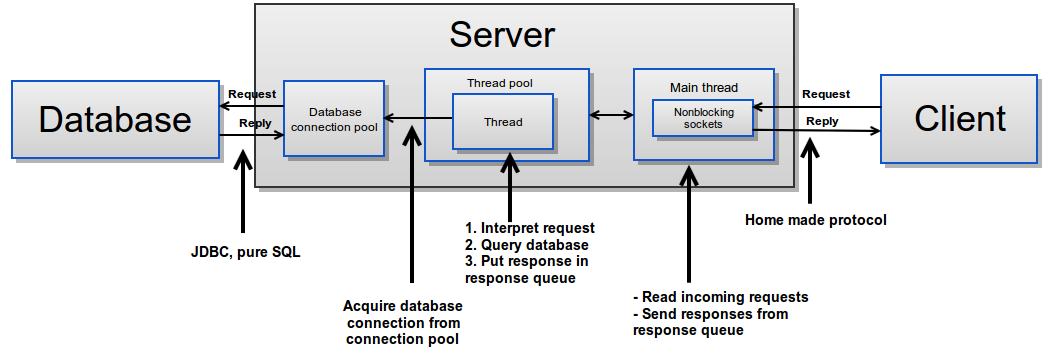
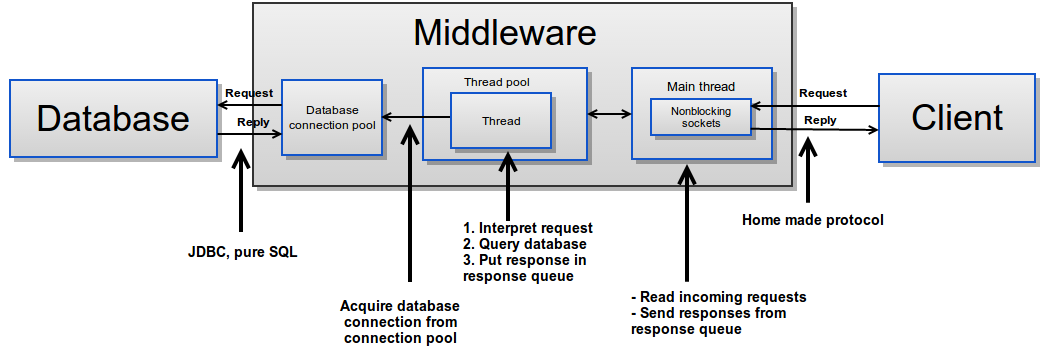
Add stuff to the report.

diff --git a/report/report.tex b/report/report.tex
@@ -38,14 +38,74 @@
 
 
         \subsection{Client}
-            We decided to keep the implementation of our client as simple as possible. This means that our client implementation only consists of code that implements the API described earlier. Basically, our client code can be used directly as a library to communicate with our middleware.
+            We decided to keep the implementation of our client as simple as possible. This means that our client implementation only consists of code that implements the API described earlier. Basically, our client code is a library that can be used in other Java applications to communicate with our middleware.\\
+            \\
+            The client has the following important Java \textbf{packets} and \textit{classes}:
+            \begin{itemize}
+                \item \textbf{asl}
+                    \begin{itemize}
+                        \item \textit{ThorBangMQ} - Main class
+                        \item \textit{Message} - Representation of a message
+                    \end{itemize}
+                \item \textbf{asl.network}
+                \begin{itemize}
+                     \item \textit{SocketTransport} - Transport layer using sockets
+                 \end{itemize} 
+                \item \textbf{asl.infrastructure}
+                 \begin{itemize}
+                    \item \textit{MemoryLogger} - Logging to memory, dump to file later
+                \end{itemize}
+                \item \textbf{asl.infrastructure.exceptions}
+                \begin{itemize}
+                    \item \textit{InvalidClientException} - Invalid client id
+                    \item \textit{InvalidQueueException} - Invalid queue id
+                    \item \textit{InvalidMessageException} - Invalid message id
+                    \item \textit{ServerException} - Unknown exception at server, something is very wrong
+                \end{itemize}
+            \end{itemize}
 
         \subsection{Middleware}
-            We have chosen to use non-blocking sockets instead of blocking sockets since it as a few properties that we like, one of which is that we don't have to spawn a new thread for every client that connects. This means that it will have a smaller impact on the server when a client connects, and that we can support many more clients simultaneously, since the amount of threads in our program will not be linear to the amount of clients currently connected. There is an obvious disadvantage to choosing non-blocking sockets over blocking sockets, though, which is that it can be harder to think about, implement, and work with non-blocking sockets.\\
+            In our middleware we have chosen to use non-blocking sockets instead of blocking sockets since it as a few properties that we like, one of which is that we don't have to spawn a new thread for every client that connects. This means that it will have a smaller impact on the server when a client connects, and that we can support many more clients simultaneously, since the amount of threads in our program doesn't have to be linear to the amount of clients currently connected. There is an obvious disadvantage to choosing non-blocking sockets over blocking sockets though, which is that it can be harder to think about, implement, and work with non-blocking sockets.\\
             \\
-            We chose to use a thread-pool for request interpretation in order to serve multiple requests simultaneously. At the same time, this gives us an obvious place to wait (block) while we wait for the database to answer queries. With regard to the database, we chose to use a connection-pool to avoid the overhead of setting up a new connection to the database each time we query it.\\
+            In an attempt to make our implementation simpler, we decided to perform all network i/o in one thread of our program. Since we want to be able to handle multiple requests simultaneously, we pass data from the network i/o-thread to worker threads for interpretation and handling. These worker threads interpret incoming data and perform database queries needed to complete the request. Afterwards they put the response in a response queue, which the network i/o-thread will read in order to send replies to the requesting clients.\\
             \\
-            In an attempt to make our implementation simpler, we decided to perform all network i/o in the main thread. In order to have the blocking database calls out of the main thread, we use worker threads (as described above) which interpret requests and perform the blocking calls to the database. These worker threads put responses in a response queue which the main thread empties by sending responses on to the clients.
+            By moving interpretation and handling of requests to a thread different from the network i/o-thread, we have a place to perform our (blocking) queries to the database without blocking the whole system.\\
+            We have chosen to use a thread-pool for request interpretation in order to avoid the overhead of creating and deleting threads all of the time, and at the same time bound the maximum number of threads our program will spawn. This should make our system able to handle many more clients than we have threads at the cost of slower response times.\\
+            \\
+            With regard to database connections, we have chosen to use a connection-pool to avoid the overhead of setting up a new connection to the database each time we query it.\\
+            \\
+            The middleware consists of the following important Java \textbf{packets} and \textit{classes}:
+            \begin{itemize}
+                \item \textbf{asl}
+                \begin{itemize}
+                    \item \textit{Main} - Entry point of the program
+                    \item \textit{IntervalLogger} - Logs test data every x second, configurable
+                    \item \textit{GlobalCounters} - Holds global counters used during tests
+                    \item \textit{Message} - Representation of a message
+                    \item \textit{ServerSettings} - Configurable parameters of the server
+                \end{itemize}
+                \item \textbf{asl.infrastructure}
+                \begin{itemize}
+                    \item \textit{MemoryLogger} - Logging to memory, dump to file later
+                \end{itemize}
+                \item \textbf{asl.infrastructure.exceptions}
+                \begin{itemize}
+                    \item \textit{InvalidClientException} - Invalid client id
+                    \item \textit{InvalidQueueException} - Invalid queue id
+                    \item \textit{InvalidMessageException} - Invalid message id
+                    \item \textit{ServerException} - Unknown exception at server, something is very wrong
+                \end{itemize}
+                \item \textbf{asl.network}
+                \begin{itemize}
+                    \item \textit{SocketTransport} - Transport layer using sockets
+                \end{itemize}
+                \item \textbf{asl.persistence}
+                \begin{itemize}
+                    \item \textit{PostgresPersistence} - Uses Postgres as storage
+                    \item \textit{InMemoryPersistence} - Uses local memory as storage
+                    \item \textit{LyingPersistence} - Doesn't store anything
+                \end{itemize}
+            \end{itemize}
 
         \subsection{Database}
             We have chosen to use a simple database schema with three tables: messages, queues, and clients. We have put indexes on all fields that will be used to filter messages. These fields are indicated with a plus sign ($+$) on Figure \ref{fig:database_schema}. 
@@ -55,7 +115,6 @@
                 \caption{Database schema}
                 \label{fig:database_schema}
             \end{figure}
-             \\
             In order to allow clients to send messages to multiple queues at once, we have chosen to replicate messages in queues rather than having a many-to-many relationship in the database. This could obviously have an impact on performance.\\
             \\
             Communication between the middleware and our database is done using JDBC, making SQL queries directly from our Java code. We decided not to use stored procedures even though it requires slightly less data to represent each query, because we found it easier to implement and debug SQL directly in our Java code. 
@@ -74,11 +133,12 @@
         \end{itemize}
 
     \section{Tests}
-        In our tests we have focused on peeking, popping, and sending messages. We decided to have this focus because we assume that these requests are sent vastly more than other requests, e.g. create queue, and that the performance of these three types of requests will dominate the performance of the other types.\\
+        In our tests we have focused on peeking, popping, and sending messages. We decided to have this focus because we assume that these requests are vastly more frequent than all other types of requests, e.g. create queue, and that the performance of these three types of requests will greatly dominate the performance of the other types.\\
         \\
-        We have performed our tests using machines form the cloud host DigitalOcean.com, where we got a 200\$ coupon to run experiments.\\
+        We have performed our tests using machines from the cloud hosting provider DigitalOcean.com, where we got a 200\$ coupon to run experiments. Running our tests on a cloud host has some obvious downsides w.r.t. our test results since we can't know for sure which hardware our tests are run on, and if we have any neighbors on this hardware.\\
+        We have run all of our experiments on machines with: 4GB memory, SSD storage, and 2 logical CPU cores. Due to the way DigitalOcean provides their servers, we can't really tell how much computing power these logical CPUs provide, or whether there are any neighbors on the hardware. In order to compensate for this we've run all of our experiments for at least 10 minutes each, to check that the performance is somewhat consistent.
         \\
-        To test and explain the performance of our system, we have identified the following parameters which we wish to test.
+        To explain the performance of our system, we have identified the following parameters which we wish to test.
         \begin{itemize}
             \item Client
             \begin{itemize}
@@ -122,6 +182,16 @@
     \section{Results}
         TODO: Note that we're using a closed system which has an effect on the results\\
         TODO: Show raw data, graphs, do statistical treatment of data
+
+        \subsection{Time spent in each part of the system}
+            % Use test sendAndPopSameClient 2013-11-09__22_23_35 and 2013-11-09__22_24_23 to infer this.
+
+        \subsection{Time to perform pop}
+
+        \subsection{Time to perform peek}
+
+        \subsection{Time to perform send}
+
 
     \section{Analysis}
         TODO: Interpret results showed above
